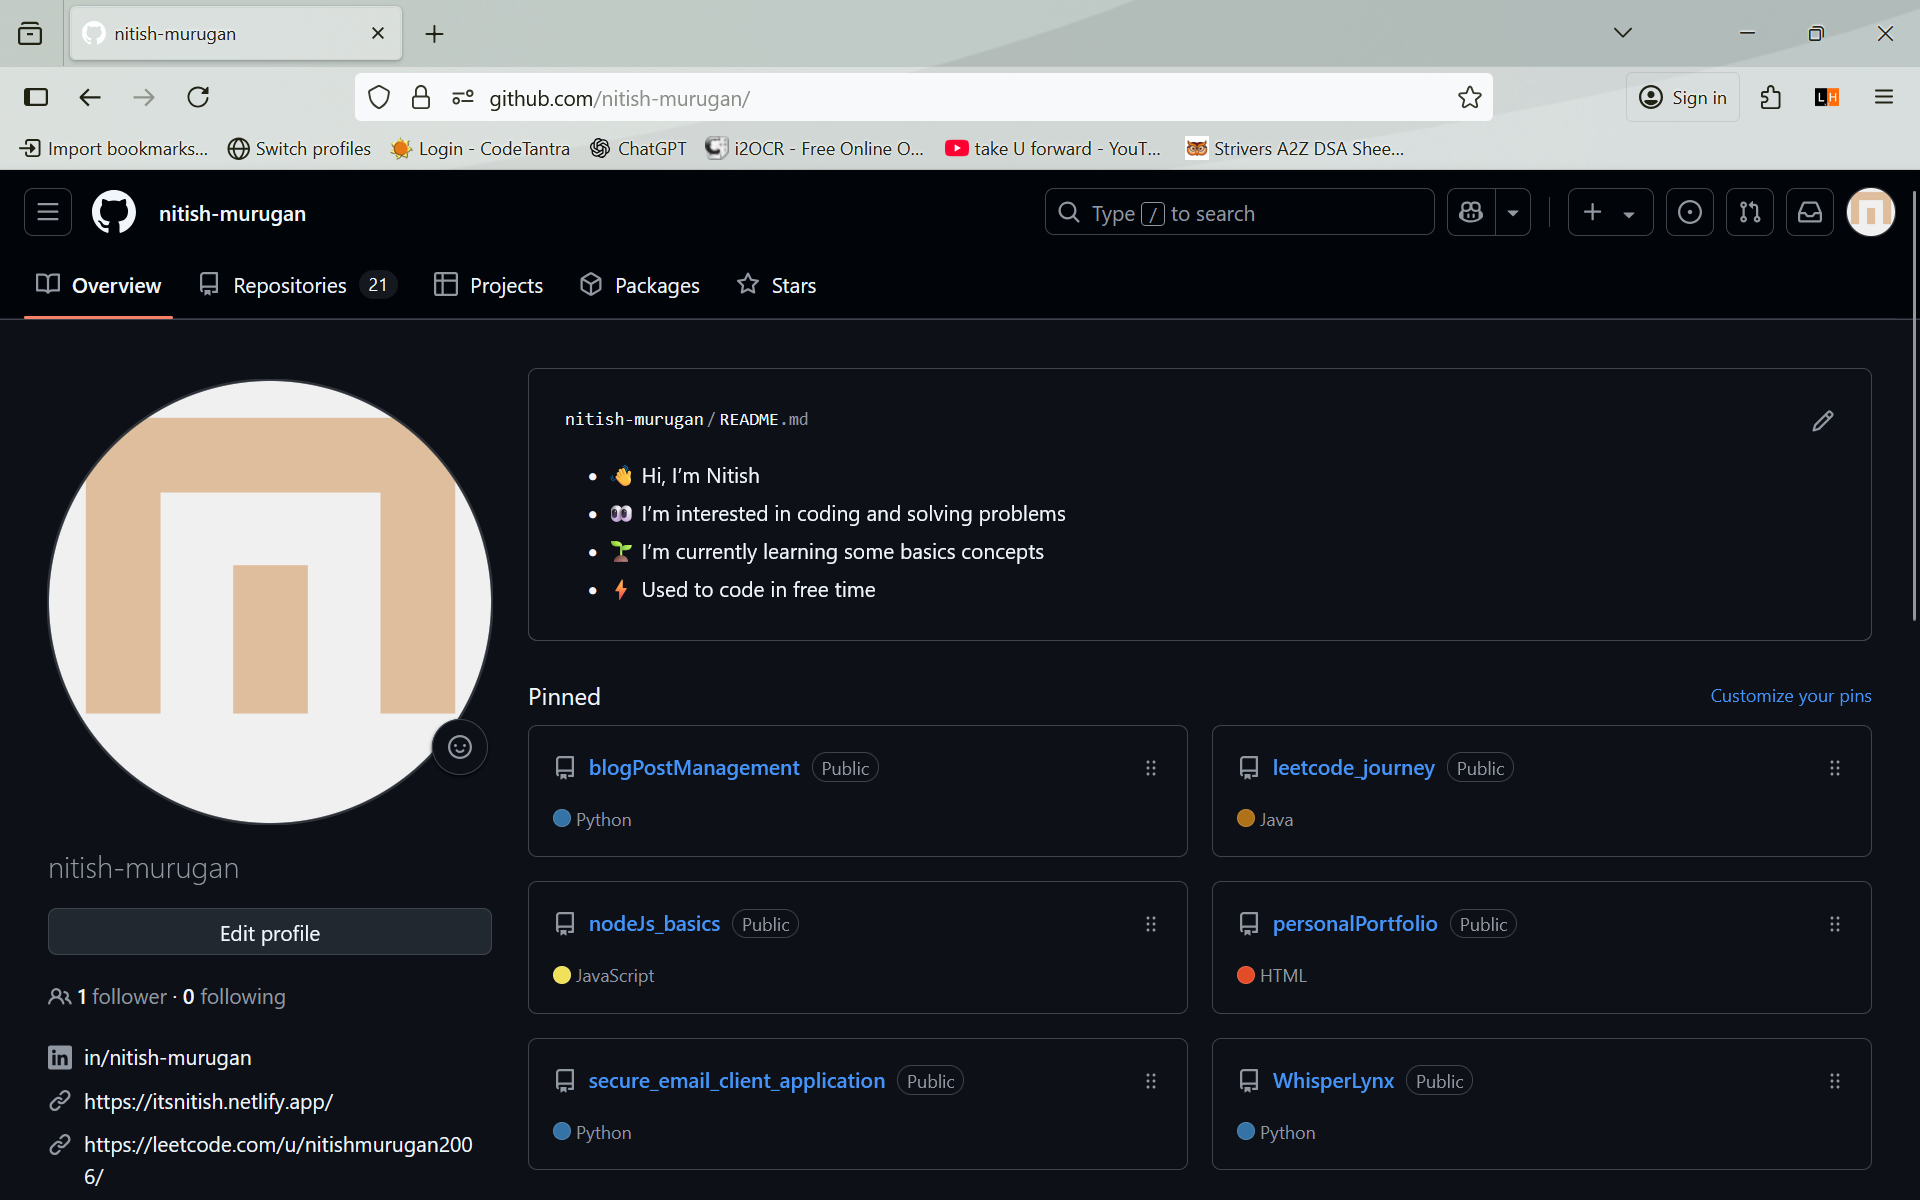
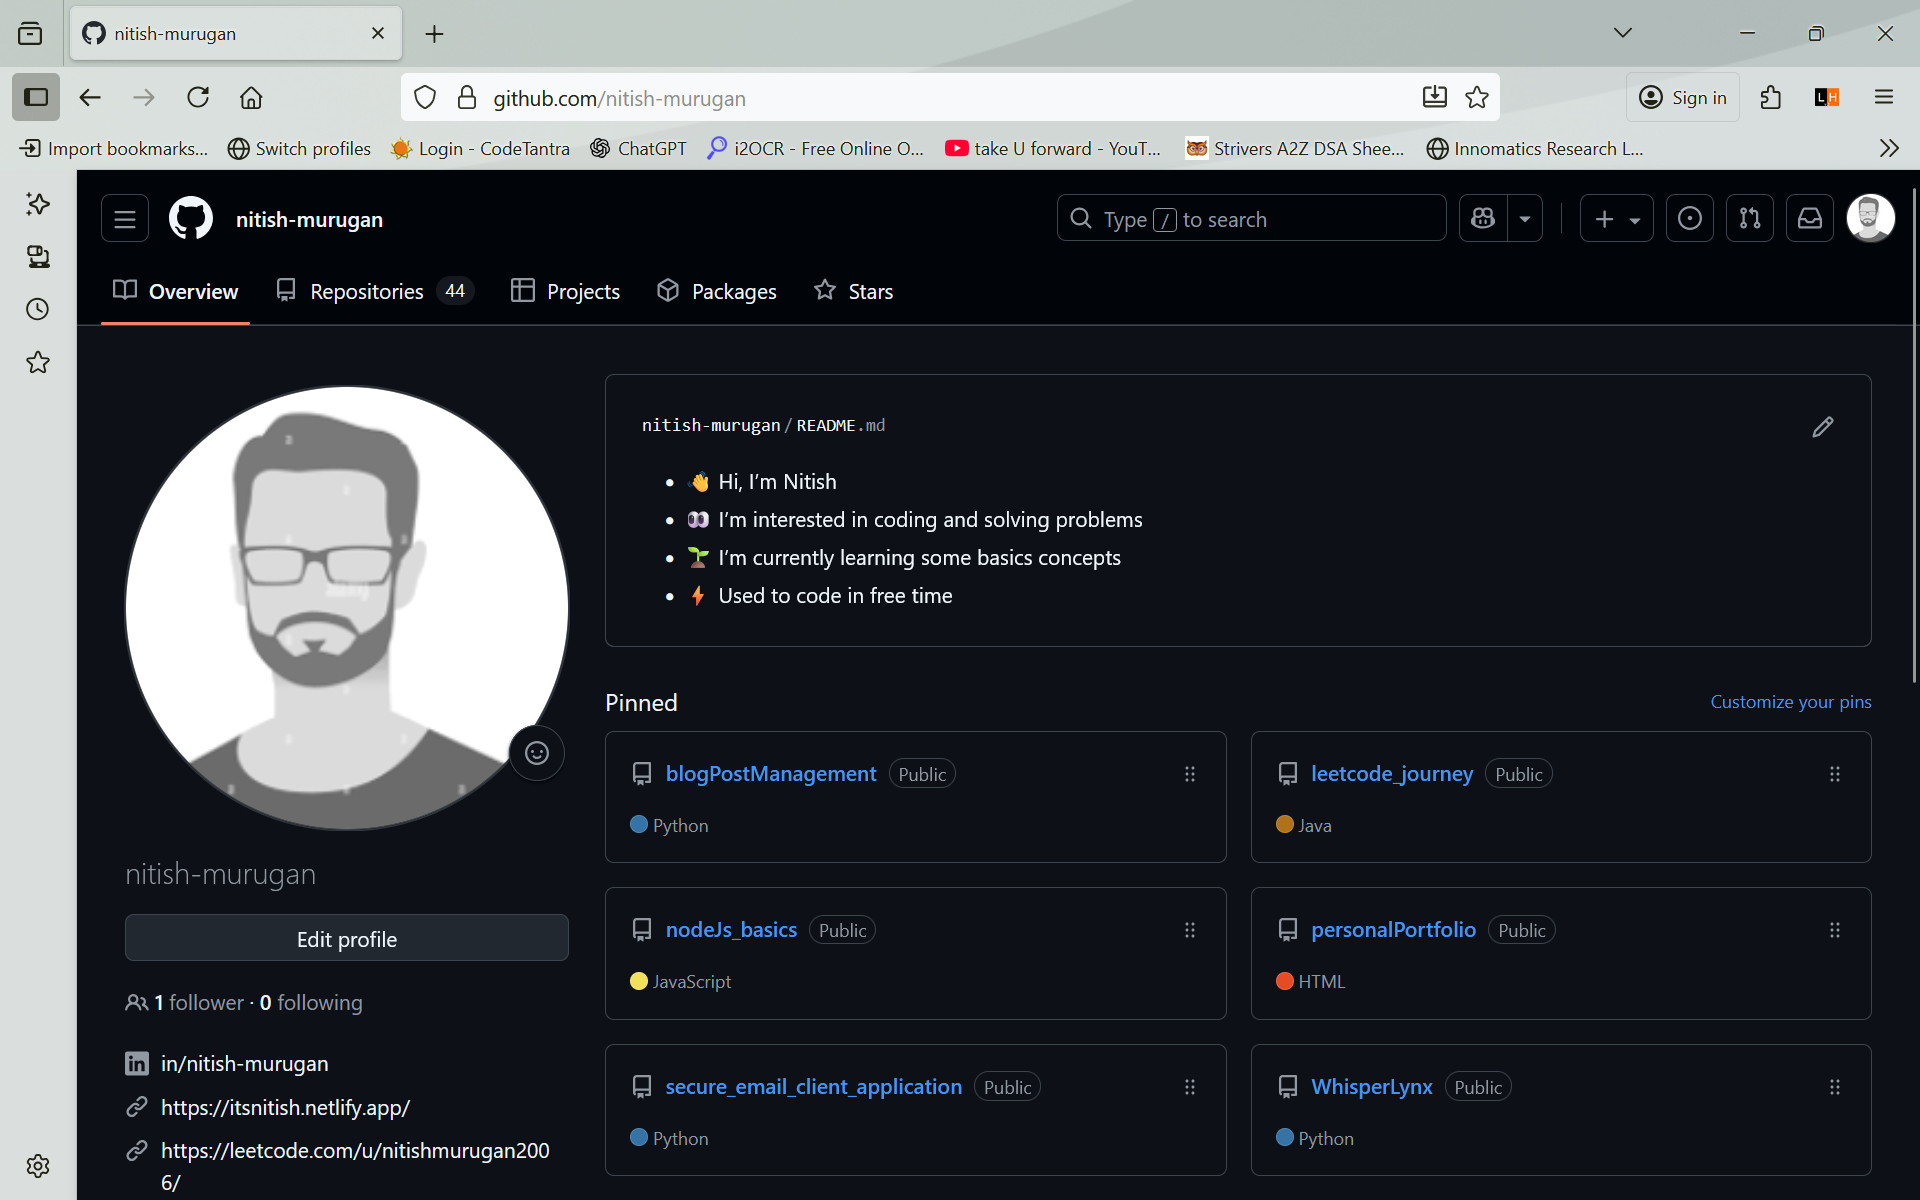
add github source code link and leetcode,github updated page

diff --git a/index.html b/index.html
@@ -249,7 +249,7 @@
                 <h3 class="card-title">Facial Intruder Alert System</h3>
                 <p class="card-text">Built with Python and OpenCV, this system detects unauthorized access and triggers real-time alerts via email and phone calls to enhance security.</p>
                 <div class="card-footer">
-                  <a class="card-button">Read More</a>
+                  <a class="card-button" href="https://github.com/nitish-murugan/Facial-Intruder-Alert-System" target="_blank">Source code</a>
                 </div>
               </div>
             </div>
@@ -261,7 +261,7 @@
                 <h3 class="card-title">AI Code Vulnerability Detector</h3>
                 <p class="card-text">Developed an AI-powered code vulnerability detector that uses machine learning and static analysis to identify security flaws in code. Integrated with CI/CD pipelines for real-time vulnerability scanning across multiple programming languages.</p>
                 <div class="card-footer">
-                  <a class="card-button">Read More</a>
+                  <a class="card-button" href="https://github.com/nitish-murugan/AICodeVul" target="_blank">Source code</a>
                 </div>
               </div>
             </div>
@@ -273,7 +273,7 @@
                 <h3 class="card-title">Secure Mail Client Application</h3>
                 <p class="card-text">Created a secure email client for Hotmail and Live Mail, featuring AES and Triple DES encryption for data protection, along with a spam detection system to improve user experience.</p>
                 <div class="card-footer">
-                  <a class="card-button">Read More</a>
+                  <a class="card-button" target="_blank" href="https://github.com/nitish-murugan/secure_email_client_application">Source code</a>
                 </div>
               </div>
             </div>
@@ -285,7 +285,7 @@
                 <h3 class="card-title">HandWritten Digits Recognition</h3>
                 <p class="card-text">Built a machine learning model using Python's NumPy, matplotlib, and scikit-learn to recognize handwritten digits from the MNIST dataset, with model evaluation for performance.</p>
                 <div class="card-footer">
-                  <a class="card-button">Read More</a>
+                  <a class="card-button" target="_blank" href="#">Source code</a>
                 </div>
               </div>
             </div>
@@ -297,7 +297,7 @@
                 <h3 class="card-title">Agentic AI Business Model</h3>
                 <p class="card-text">This is an AI-powered Quick Commerce Demand Prediction System that uses machine learning (Random Forest with 93.6% accuracy) to forecast product demand, optimize inventory allocation across cities, and provide automated business intelligence through a modern web interface.</p>
                 <div class="card-footer">
-                  <a class="card-button">Read More</a>
+                  <a class="card-button" target="_blank" href="https://github.com/nitish-murugan/Agentic_AI_Hackathon_Review">Source code</a>
                 </div>
               </div>
             </div>
@@ -307,9 +307,9 @@
               </div>
               <div class="card-content">
                 <h3 class="card-title">Energy Monitoring Mobile Application</h3>
-                <p class="card-text">Developed a real-time energy monitoring React Native app with MQTT integration for tracking solar, wind, and battery storage systems across multiple PZEM sensors. Built WebSocket bridge architecture enabling live data visualization, automated alerts, and cross-platform deployment for industrial energy management solutions.</p>
+                <p class="card-text">Developed a real-time energy monitoring React Native app with MQTT integration for tracking solar, wind, and battery across multiple PZEM sensors. Built WebSocket bridge architecture enabling live data visualization, automated alerts, and cross-platform solutions.</p>
                 <div class="card-footer">
-                  <a class="card-button">Read More</a>
+                  <a class="card-button" target="_blank" href="https://github.com/nitish-murugan/sihApp_reactNative">Source code</a>
                 </div>
               </div>
             </div>
@@ -320,9 +320,9 @@
               <div class="card-content">
                 <h3 class="card-title">WhisperLynx</h3>
                 <p class="card-text">Developed a live chat app using Python's socket programming and AES encryption, ensuring end-to-end security for message transmission.</p>
-                <div class="card-footer">
+                <div class="card-footer" target="_blank" href="https://github.com/nitish-murugan/WhisperLynx">
                   
-                  <a class="card-button">Read More</a>
+                  <a class="card-button">Source code</a>
                 </div>
               </div>
             </div>
@@ -334,7 +334,7 @@
                 <h3 class="card-title">Spotify Analytics</h3>
                 <p class="card-text">Built a web app using the Spotify API to fetch user data and track info via track IDs. Used SQL for storing and retrieving records, and visualized listening stats with Chart.js. The project showcases API integration, data handling, and interactive chart generation.</p>
                 <div class="card-footer">
-                  <a class="card-button">Read More</a>
+                  <a class="card-button" target="_blank" href="#">Source code</a>
                 </div>
               </div>
             </div>
@@ -346,7 +346,7 @@
                 <h3 class="card-title">Weather Forecast Application</h3>
                 <p class="card-text">A simple weather app built with Python Flask, fetching real-time data from a Weather API. It uses Jinja2 for dynamic rendering and HTML/CSS for a responsive UI to display current weather conditions.</p>
                 <div class="card-footer">
-                  <a class="card-button">Read More</a>
+                  <a class="card-button"  target="_blank" href="https://github.com/nitish-murugan/weather_App">Source code</a>
                 </div>
               </div>
             </div>
